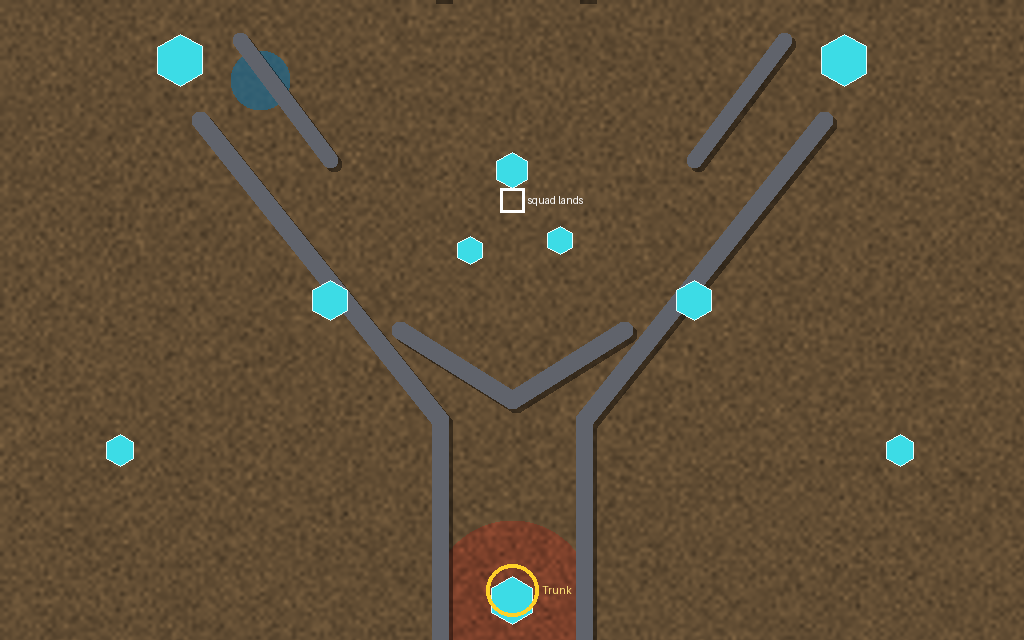
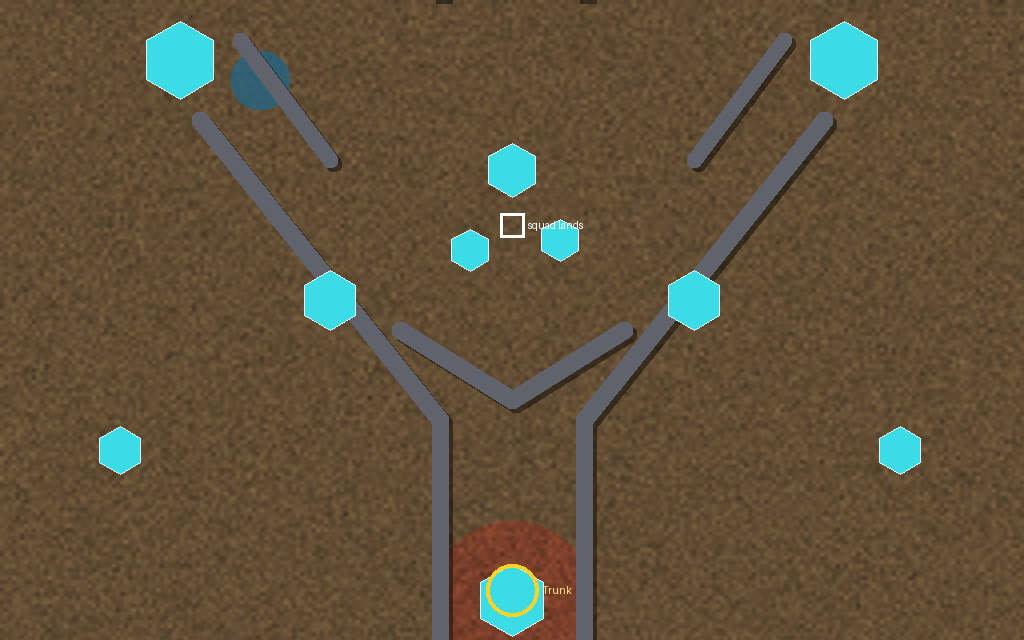
Maps v2: crystal radii 3x v1 (56-97% of the race world's crystal cells); Fork landing off its crystal
Claude-Session: https://claude.ai/code/session_01PYHSSuBKqcTi9aBdxxXKU3

diff --git a/Reports/larder-maps-2026-11-11/sketch_maps.py b/Reports/larder-maps-2026-11-11/sketch_maps.py
@@ -55,17 +55,18 @@ SOILS = {"plain": 0, "sand": 1, "clay": 2, "barren": 3}
 # map: name, the plan it is drawn for, rock polylines and discs, water
 # discs, soft rock, soil patches, crystals (x, y, radius, charge), mould
 # starts (x, y, radius, tier), landing. All in 1024 x 640 cells (the
-# Larder world's pile_r of 6 dish cells is 24 here); crystal radii were
-# doubled from version 1, whose 7-15 were under the engine's own pile. Version 1 (height-led) is in git
+# Larder world's pile_r of 6 dish cells is 24 here); crystal radii are
+# 3x version 1's (7-15 were under the engine's own pile; at 2x the maps
+# held 25-43% of the race world's crystal cells, Larder thread 21:32Z). Version 1 (height-led) is in git
 # history (PR #76).
 MAPS = [
  dict(name="rim", title="The Rim", plan="turtle (hold the gaps in the rim)",
       rock=[("ring", 512, 320, 200, 16, [(0, 14), (90, 10), (180, 14), (270, 10)])],
       wet=[("disc", 470, 360, 34)], soft=[],
       soil=[("disc", 512, 320, 184, "clay"), ("ring", 512, 320, 250, 30, "sand")],
-      crystals=[(460, 280, 28, 512), (575, 360, 28, 512), (560, 250, 24, 384),
-                (150, 120, 18, 256), (880, 120, 18, 256), (150, 520, 18, 256), (880, 520, 18, 256),
-                (512, 50, 18, 256), (512, 595, 18, 256), (60, 320, 16, 192), (970, 320, 16, 192)],
+      crystals=[(460, 280, 42, 512), (575, 360, 42, 512), (560, 250, 36, 384),
+                (150, 120, 27, 256), (880, 120, 27, 256), (150, 520, 27, 256), (880, 520, 27, 256),
+                (512, 50, 27, 256), (512, 595, 27, 256), (60, 320, 24, 192), (970, 320, 24, 192)],
       moulds=[(512, 320, 24, "Drifter or Sprawler")], landing=(90, 580)),
  dict(name="fork", title="The Fork", plan="lure (bait one fork, harvest the other)",
       rock=[("poly", [(440, 640), (440, 420), (200, 120)], 9), ("poly", [(584, 640), (584, 420), (824, 120)], 9),
@@ -73,9 +74,9 @@ MAPS = [
             ("poly", [(240, 40), (330, 160)], 8), ("poly", [(784, 40), (694, 160)], 8)],
       wet=[("disc", 260, 80, 30)], soft=[],
       soil=[("disc", 512, 600, 80, "clay")],
-      crystals=[(512, 600, 24, 384), (330, 300, 20, 384), (180, 60, 26, 512), (694, 300, 20, 384), (844, 60, 26, 512),
-                (512, 170, 18, 256), (470, 250, 14, 192), (560, 240, 14, 192), (120, 450, 16, 192), (900, 450, 16, 192)],
-      moulds=[(512, 590, 26, "Trunk")], landing=(512, 200)),
+      crystals=[(512, 600, 36, 384), (330, 300, 30, 384), (180, 60, 39, 512), (694, 300, 30, 384), (844, 60, 39, 512),
+                (512, 170, 27, 256), (470, 250, 21, 192), (560, 240, 21, 192), (120, 450, 24, 192), (900, 450, 24, 192)],
+      moulds=[(512, 590, 26, "Trunk")], landing=(512, 225)),
  dict(name="flats", title="The Flats", plan="boom (out-harvest a mould that cannot hold sand)",
       rock=[], wet=[], soft=[],
       soil=[("all", "sand"), ("disc", 760, 320, 60, "clay"), ("disc", 560, 140, 45, "clay"), ("disc", 560, 500, 45, "clay"),
@@ -85,8 +86,8 @@ MAPS = [
       rock=[("disc", 300, 140, 50), ("disc", 300, 500, 50)], wet=[("disc", 860, 120, 40), ("disc", 860, 520, 40)],
       soft=[("ring", 640, 320, 135, 8, [(200, 12)])],
       soil=[("disc", 640, 320, 128, "clay")],
-      crystals=[(600, 290, 30, 640), (690, 360, 30, 640), (180, 120, 16, 192), (180, 520, 16, 192),
-                (380, 320, 16, 192), (420, 90, 14, 160), (420, 560, 14, 160), (930, 120, 14, 160), (930, 540, 14, 160)],
+      crystals=[(600, 290, 45, 640), (690, 360, 45, 640), (180, 120, 24, 192), (180, 520, 24, 192),
+                (380, 320, 24, 192), (420, 90, 21, 160), (420, 560, 21, 160), (930, 120, 21, 160), (930, 540, 21, 160)],
       moulds=[(640, 320, 18, "Sleeper or Hunter")], landing=(130, 320)),
  dict(name="passes", title="The Passes", plan="adapt (set two moulds on each other)",
       rock=[("poly", [(220, 215), (1024, 215)], 9), ("poly", [(0, 215), (150, 215)], 9),
@@ -94,8 +95,8 @@ MAPS = [
       wet=[("disc", 380, 320, 36), ("disc", 700, 300, 30)],
       soft=[("poly", [(150, 215), (220, 215)], 6)],
       soil=[("rect", 0, 0, 1024, 206, "clay"), ("rect", 0, 434, 1024, 640, "sand")],
-      crystals=[(300, 100, 22, 384), (650, 90, 24, 512), (900, 150, 20, 384), (300, 540, 22, 384), (650, 560, 24, 512),
-                (900, 500, 20, 384), (200, 320, 16, 256), (560, 330, 18, 256), (820, 340, 18, 320)],
+      crystals=[(300, 100, 33, 384), (650, 90, 36, 512), (900, 150, 30, 384), (300, 540, 33, 384), (650, 560, 36, 512),
+                (900, 500, 30, 384), (200, 320, 24, 256), (560, 330, 27, 256), (820, 340, 27, 320)],
       moulds=[(860, 90, 26, "rival A (clay valley)"), (860, 570, 26, "rival B (sand valley)")], landing=(90, 320)),
 ]
 
@@ -128,11 +129,11 @@ def build(m):
         elif s_[0] == "ring": soil[np.abs(np.hypot(xx - s_[1], yy - s_[2]) - s_[3]) < s_[4]] = SOILS[s_[5]]
     if m["crystals"] == "scatter":
         rng = np.random.default_rng(42)
-        cs = [(760, 320, 24, 384), (560, 140, 18, 256), (560, 500, 18, 256), (330, 240, 18, 256), (880, 560, 18, 256)]
+        cs = [(760, 320, 36, 384), (560, 140, 27, 256), (560, 500, 27, 256), (330, 240, 27, 256), (880, 560, 27, 256)]
         while len(cs) < 32:
             x, y = int(rng.uniform(40, 984)), int(rng.uniform(40, 600))
             if all(math.hypot(x - a, y - b) > 70 for a, b, *_ in cs) and math.hypot(x - 110, y - 320) > 60:
-                cs.append((x, y, 12, 96))
+                cs.append((x, y, 18, 96))
         m["crystals"] = cs
     wet &= ~rock
     return h, rock, wet, soft, soil

diff --git a/Reports/larder-maps-2026-11-11.md b/Reports/larder-maps-2026-11-11.md
@@ -108,7 +108,7 @@ Medians of 16 seeds. All the other results survive Holm (p 0.0005-0.007).
 
 ## Maps, version 2 (flat), 2026-11-11
 
-The five maps are redrawn flat (R, height, is 0), and the sketches now use colours close to the graphics thread's world look (soil, grey rock plateaus with a shadow, glossy water), with sand pale, clay red-brown and soft rock as thicket green. Crystal radii are doubled to the engine's pile size (the Larder world's `pile_r` of 6 dish cells is 24 in 1024 x 640 cells; version 1's 7-15 were under it). Spec, loader files and sketches: [`sketch_maps.py`](larder-maps-2026-11-11/sketch_maps.py), [`maps/`](larder-maps-2026-11-11/maps/), [`sketches/`](larder-maps-2026-11-11/sketches/).
+The five maps are redrawn flat (R, height, is 0), and the sketches now use colours close to the graphics thread's world look (soil, grey rock plateaus with a shadow, glossy water), with sand pale, clay red-brown and soft rock as thicket green. Crystal radii are 3x version 1's (the Larder world's `pile_r` of 6 dish cells is 24 in 1024 x 640 cells; version 1's 7-15 were under it, and at 2x the maps held 25-43% of the race world's 8,671 crystal cells at scale 2, as the Larder thread's loader found, 21:32Z). At 3x they hold about 4,900-8,400 cells, 56-97% of the race world's. Spec, loader files and sketches: [`sketch_maps.py`](larder-maps-2026-11-11/sketch_maps.py), [`maps/`](larder-maps-2026-11-11/maps/), [`sketches/`](larder-maps-2026-11-11/sketches/).
 
 | Map | Ground | Drawn for |
 | --- | --- | --- |
